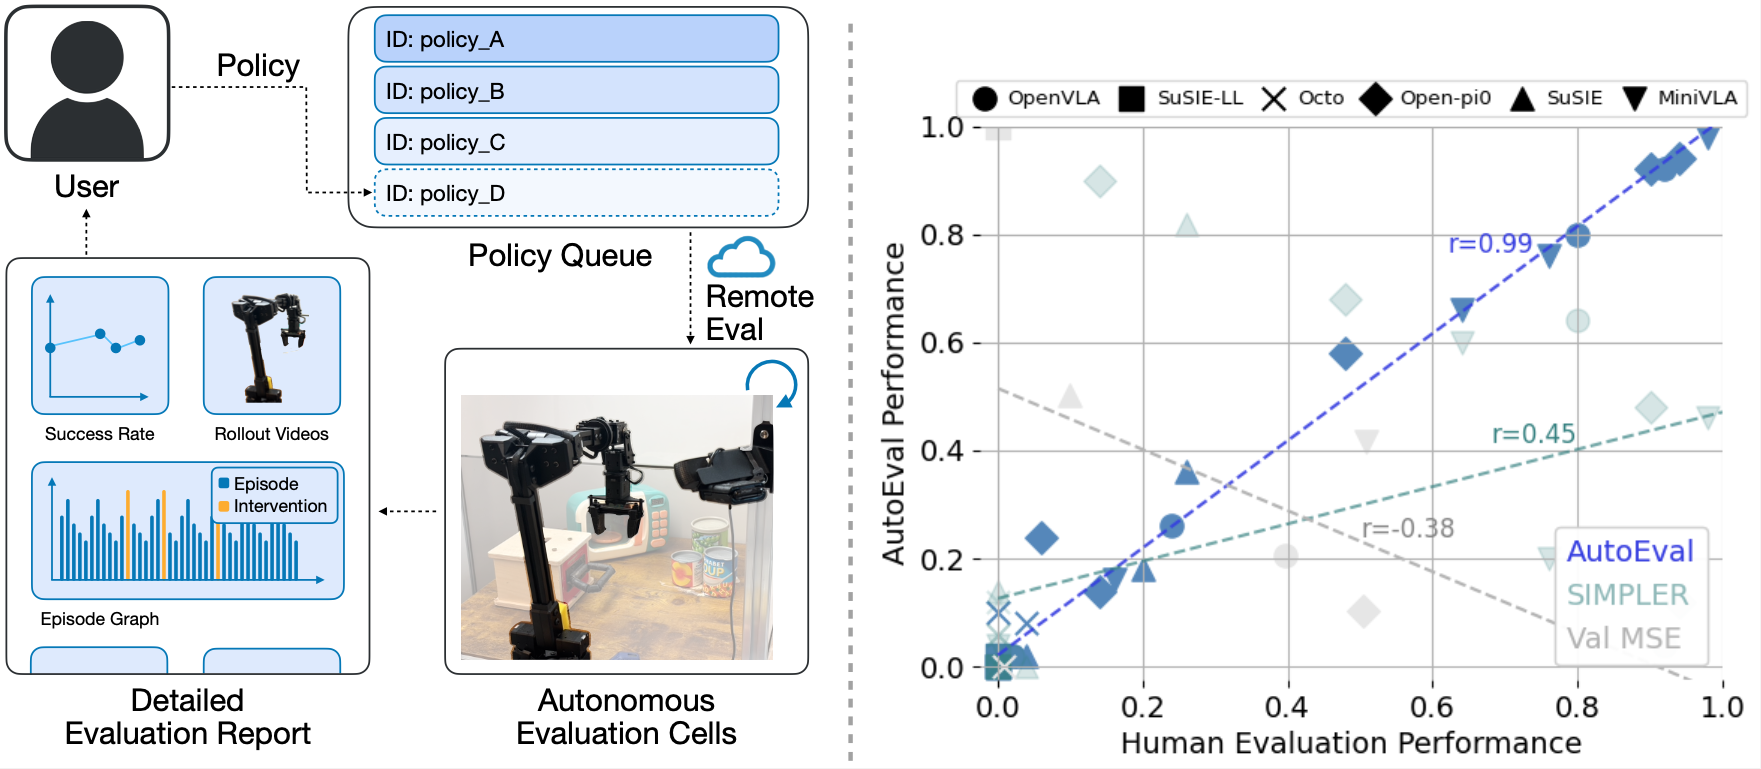
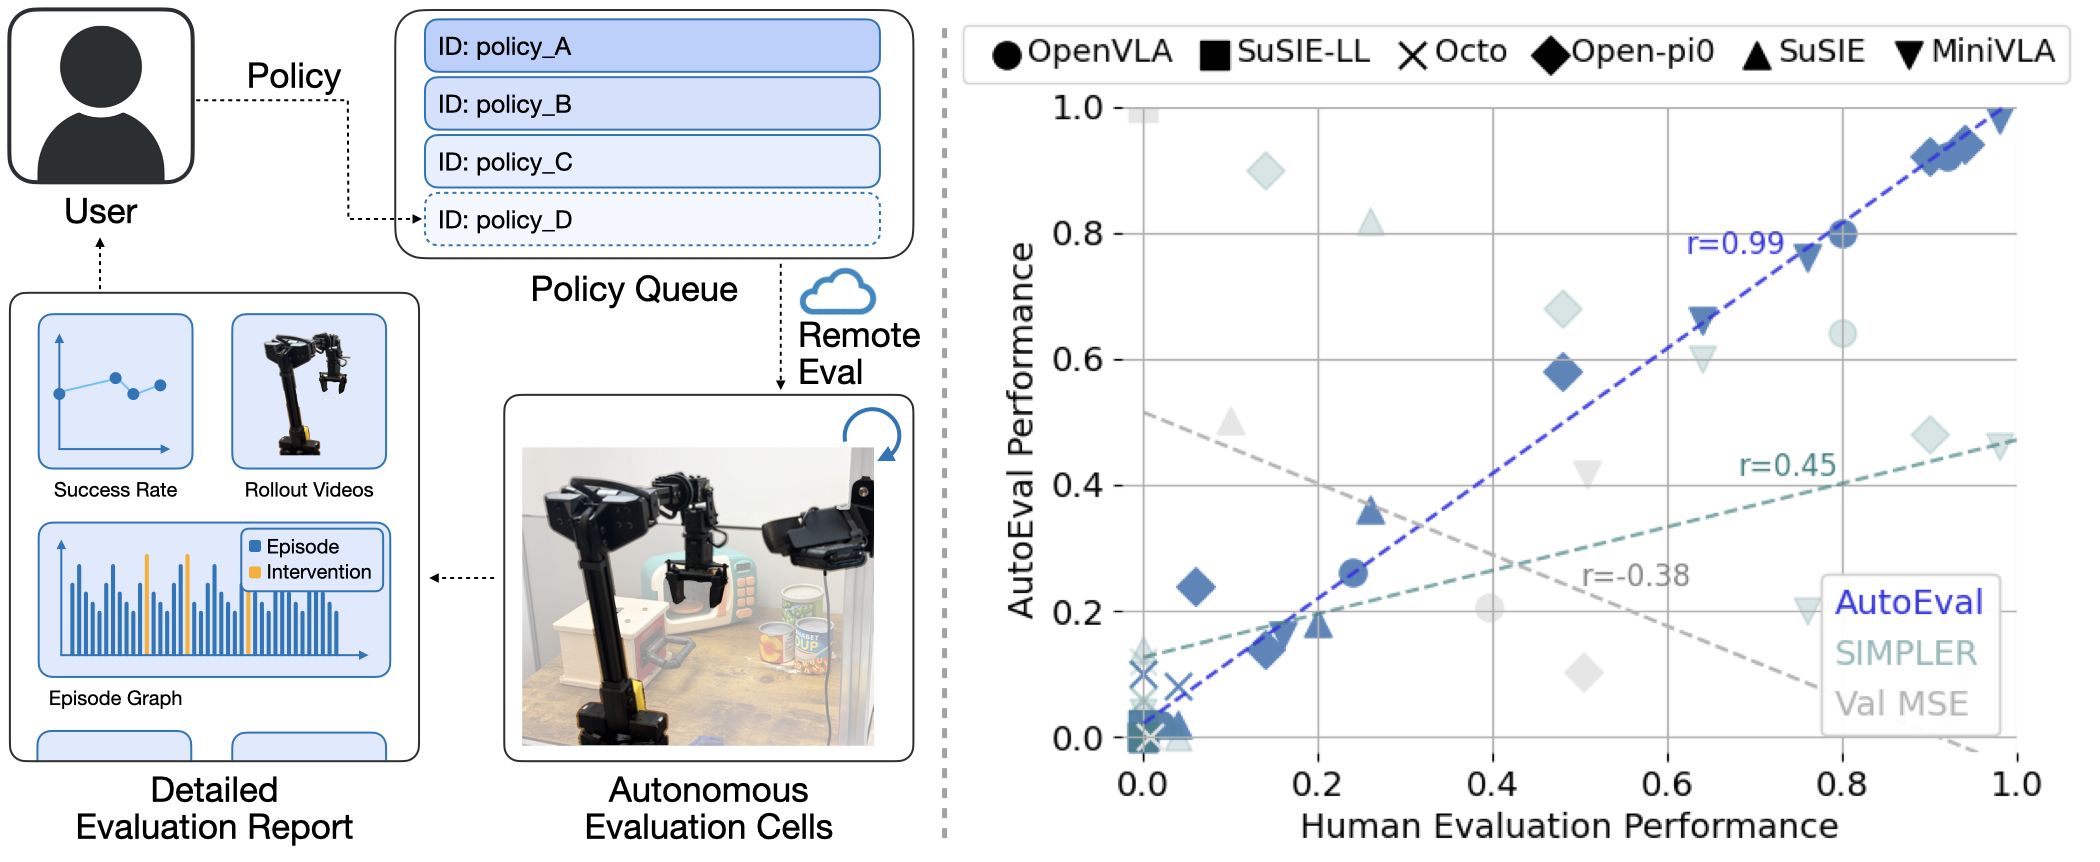
teaser and other small updates

diff --git a/index.html b/index.html
@@ -295,12 +295,12 @@
           <div class="publication-links">
             <!-- Dashboard Link. -->
             <span class="link-block">
-              <a href="http://159.223.171.199:3079/page"
+              <a href="http://159.223.171.199:46569/page"
                  class="button is-rounded is-primary">
                 <span class="icon">
                   <i class="fas fa-tachometer-alt"></i>
                 </span>
-                <span>Dashboard</span>
+                <span>Eval Live Stream & Queue</span>
               </a>
             </span>
             <!-- Paper Link. -->
@@ -346,7 +346,7 @@
             <p>AutoEval is a system that autonomously evaluates generalist robot policies in the real world 24/7, and the evaluation results correspond closely to the ground truth human-run evaluations.
                 AutoEval requires minimal human intervention by using robust success classifiers and reset policies fine-tuned from foundation models.
                 We currently open access to two AutoEval stations with WidowX robots and four different tasks. 
-                Users can submit policies through an <a href="http://159.223.171.199:3079/page" style="color: #2563eb">online dashboard</a>, and get back detailed evaluation report (success rates, videos, etc.) after the evaluation job is done.
+                Users can submit policies through an <a href="http://159.223.171.199:46569/page" style="color: #2563eb">online dashboard</a>, and get back detailed evaluation report (success rates, videos, etc.) after the evaluation job is done.
             <div class="teaser-container">
                 <img src="assets/teaser.png" alt="AutoEval Teaser" class="teaser-image">
             </div>
@@ -373,9 +373,9 @@
 
     <section class="section section-light">
         <div class="section-content">
-            <h2>Instructions</h2>
+            <h2>Instructions for Evaluating Your Policy in our AutoEval Cells</h2>
             <ol>
-                <li>Set up a policy server that can output actions once queried with an observation (256 x 256 RGB image) and language command.
+                <li>Set up a policy server that can output actions once queried with an observation (256 x 256 RGB image), proprio states, and language command.
                     Follow this <a href="https://gist.github.com/zhouzypaul/8ba0123b2931a7295a00eaa09dd540cd"
                         target="_blank">template</a> and fill out the two TODOs to create your own policy server. Basically
                     you need to implement the model loading logic & model.call() logic. This should take you 5-10 minutes.
@@ -414,6 +414,7 @@
                 <li>Monitor your job progress in the dashboard, and view it executing in real time under the live feed.</li>
                 <li>Once the eval is finished, you can access the evaluation report through the wandb link on the dashboard. The evaluation report (example <a href="https://wandb.ai/rail-iterated-offline-rl/auto_eval_beta_launch/runs/test%20good%20_open_web_client_open_the_drawer_20250305_005411?nw=nwuserzhouzypaul" target="_blank">here</a>) includes success rates, videos, and other detailed metrics on the evaluation job.</li>
             </ol>
+            <p>Please refer to the FAQ section at the bottom of the page if you run into any issues.</p>
         </div>
     </section>
 
@@ -471,7 +472,7 @@
             <li><strong>Q: Are the evaluation data logged and available?</strong><br>
                A: Yes. All evaluation data (e.g. observations, actions, success) are logged at full resolution and available on a <a href="https://huggingface.co/datasets/zhouzypaul/auto_eval" target="_blank">huggingface dataset</a>. You can find the directory to your job by going to <code>wandb eval report > logs > printed out at the bottom</code></li>
         </ol>
-        <p style="margin-top: 20px;">If you encounter problems not described here, please contact the authors or reach out on the Discord channel.</p>
+        <p style="margin-top: 20px;">If you encounter problems not described here, please contact the authors or reach out on the <a href="https://discord.gg/3CbJw48P" target="_blank">Discord channel</a>.</p>
     </div>
 </body>
 
